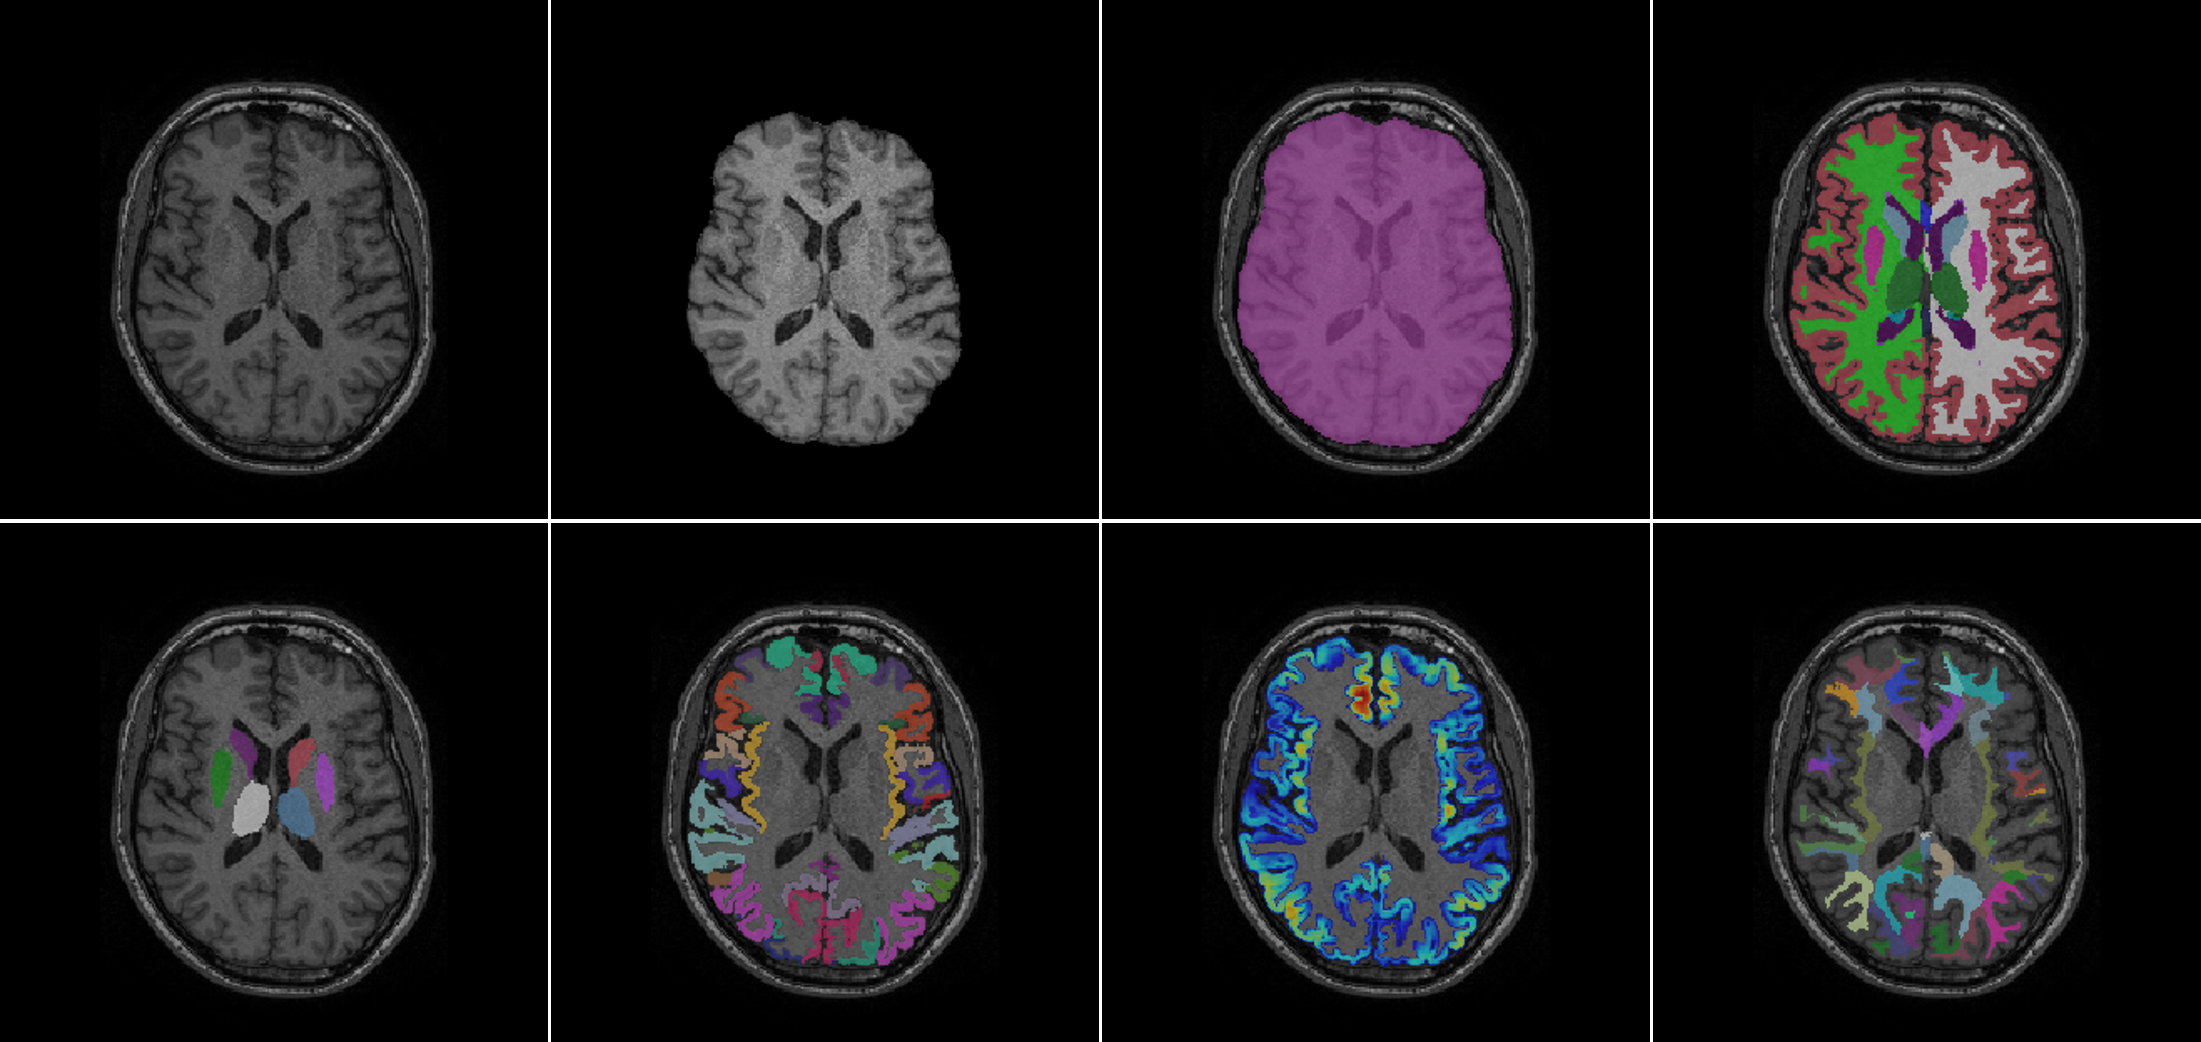
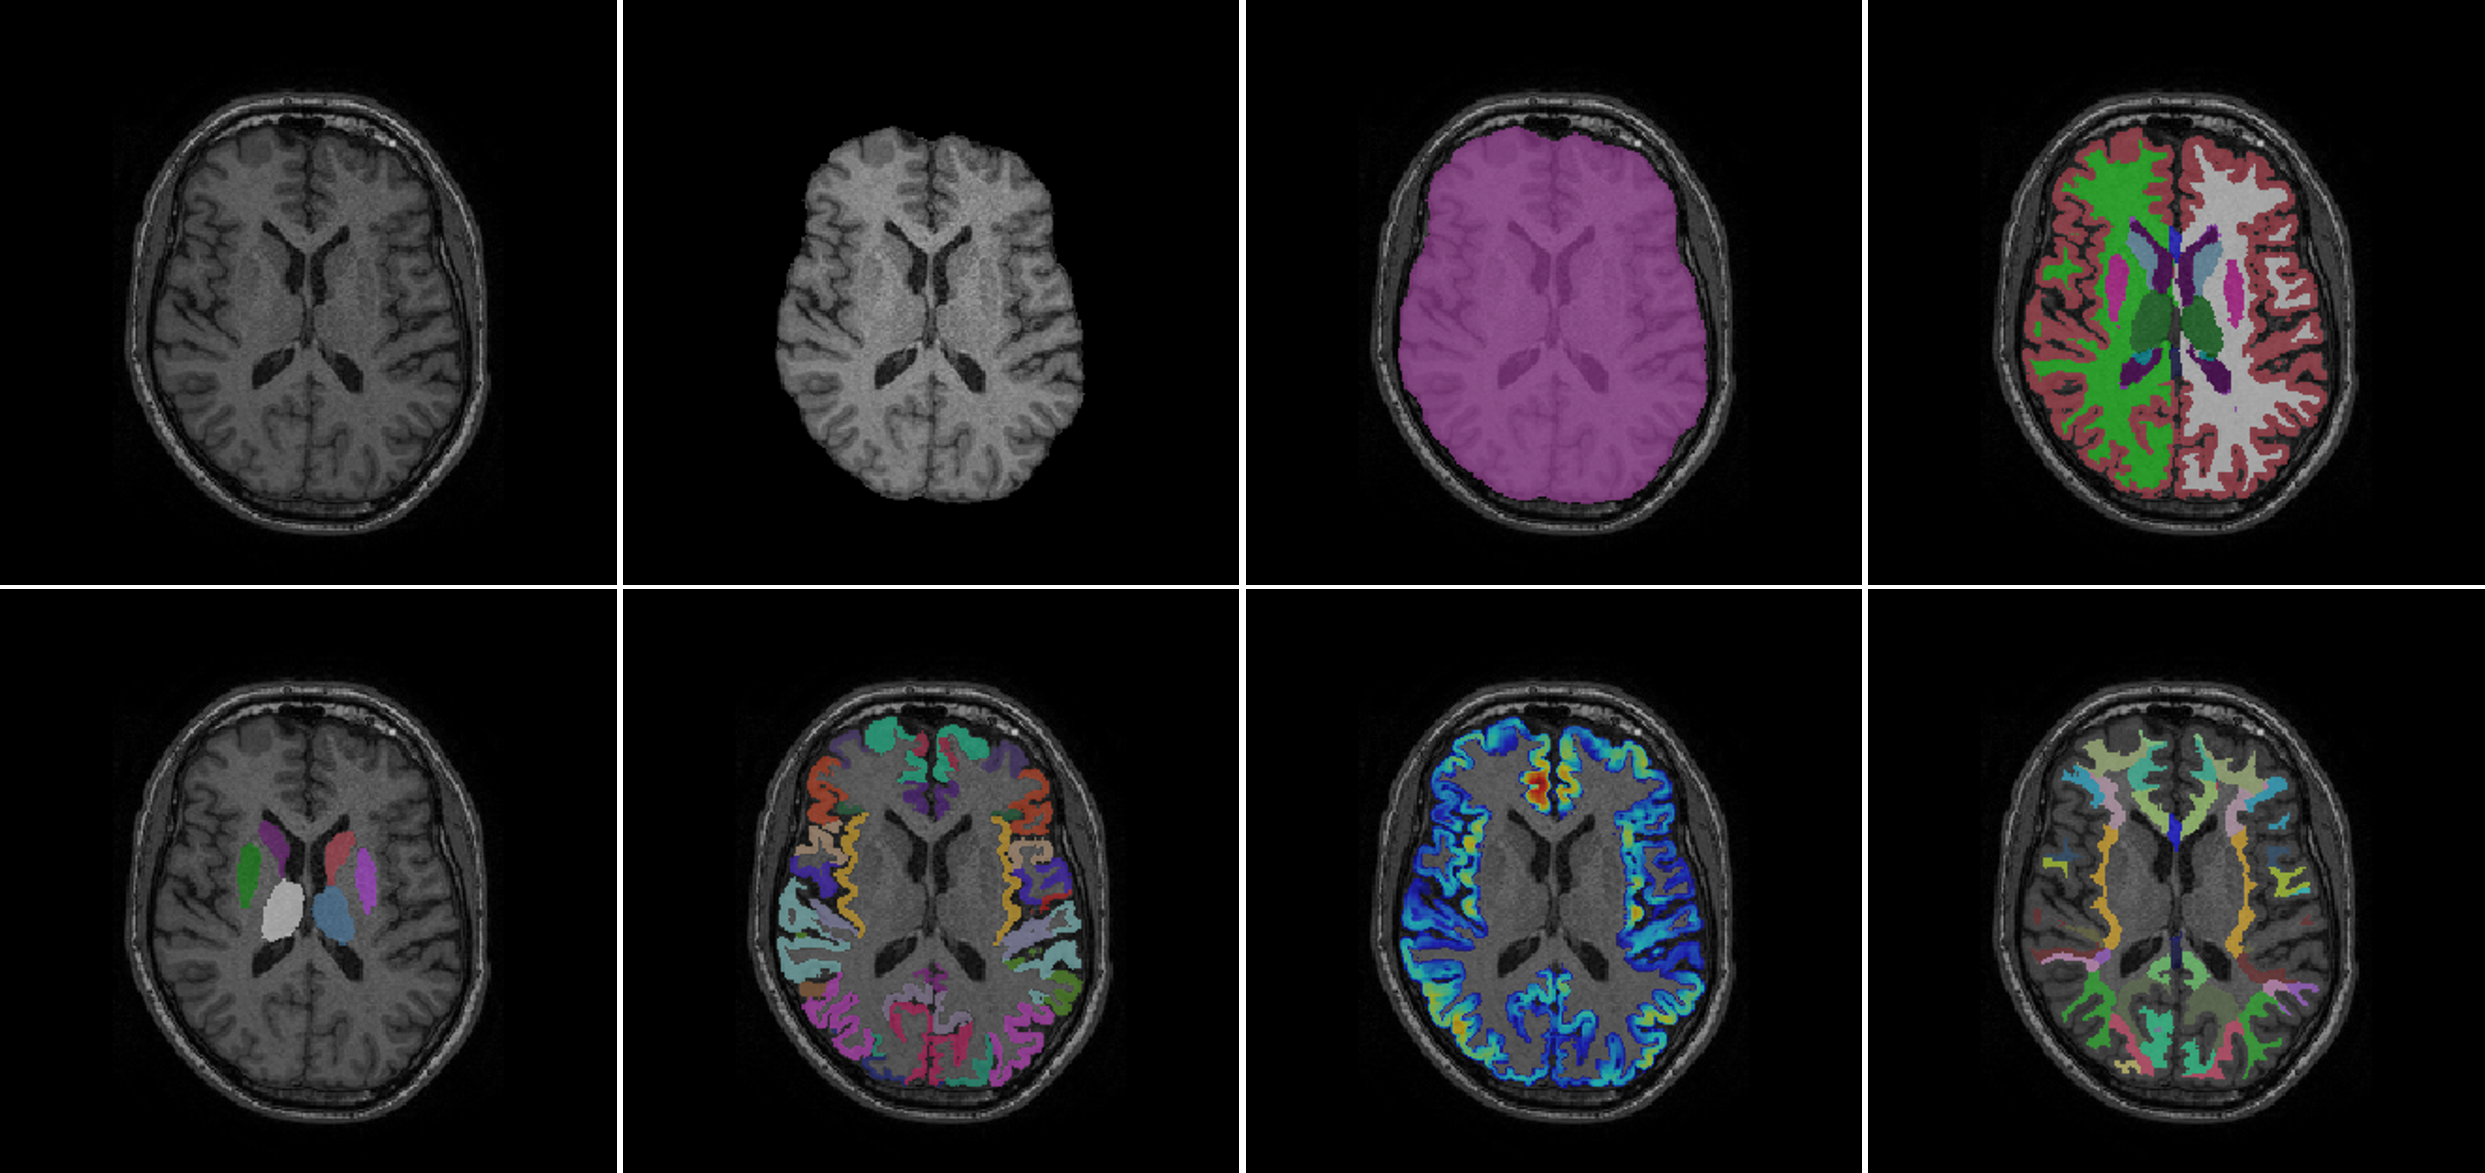
update

diff --git a/tigerbx/bx.py b/tigerbx/bx.py
@@ -126,7 +126,7 @@ def run_args(args):
     
     #default_model['dgm'] = 'mprage_aseg43_v005_crop.onnx'
     default_model['dgm'] = 'mprage_dgm12_v002_mix6.onnx'
-    default_model['wmp'] = 'mprage_wmp_v002_14k.onnx'
+    default_model['wmp'] = 'mprage_wmp_v003_14k8.onnx'
 
 
     # if you want to use other models
